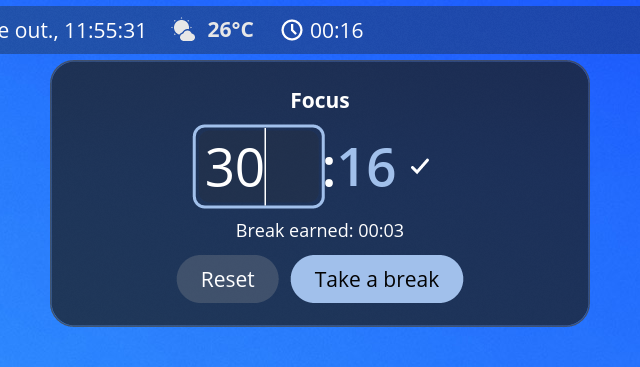
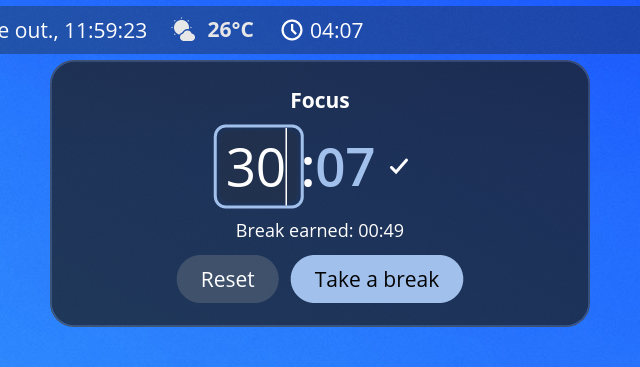
fix: narrow the time edit field to fit two digits

diff --git a/src/main.rs b/src/main.rs
@@ -469,7 +469,7 @@ impl Applet {
                     .size(35.)
                     .line_height(cosmic::iced::widget::text::LineHeight::Absolute(52.0.into()))
                     .padding([0, 6])
-                    .width(Length::Fixed(84.))
+                    .width(Length::Fixed(56.))
                     .into(),
                 _ if editable => widget::button::custom(widget::text::title1(text))
                     .class(cosmic::theme::Button::Text)
